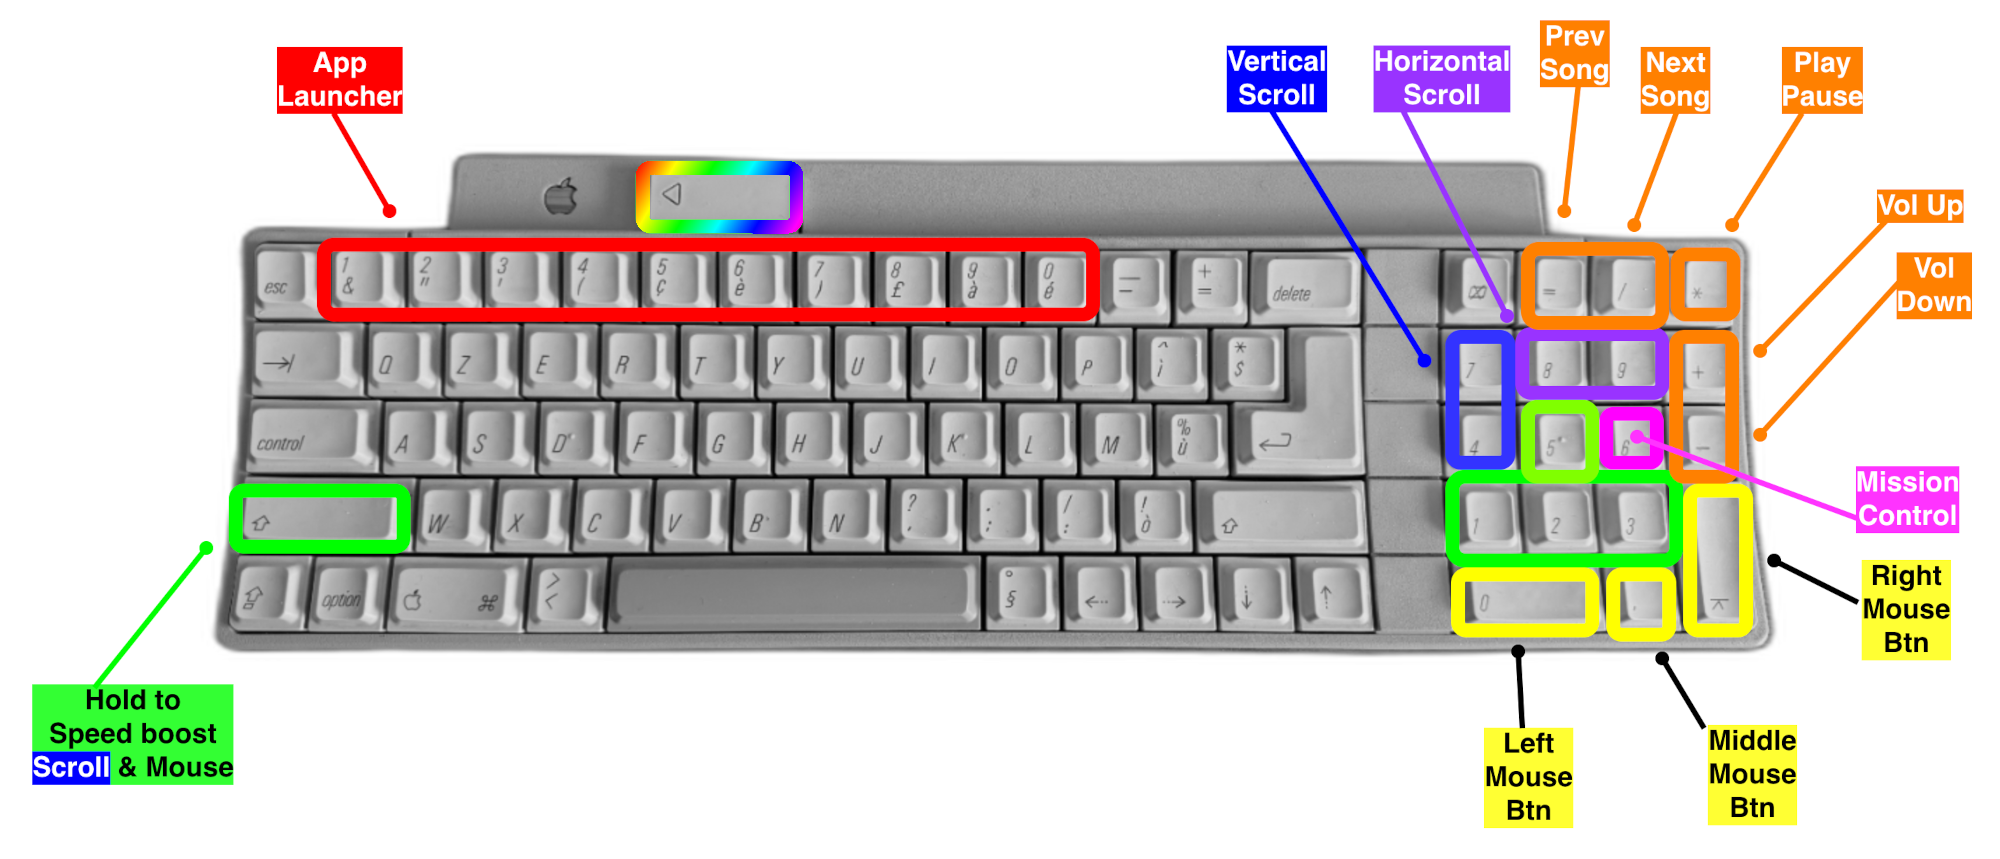
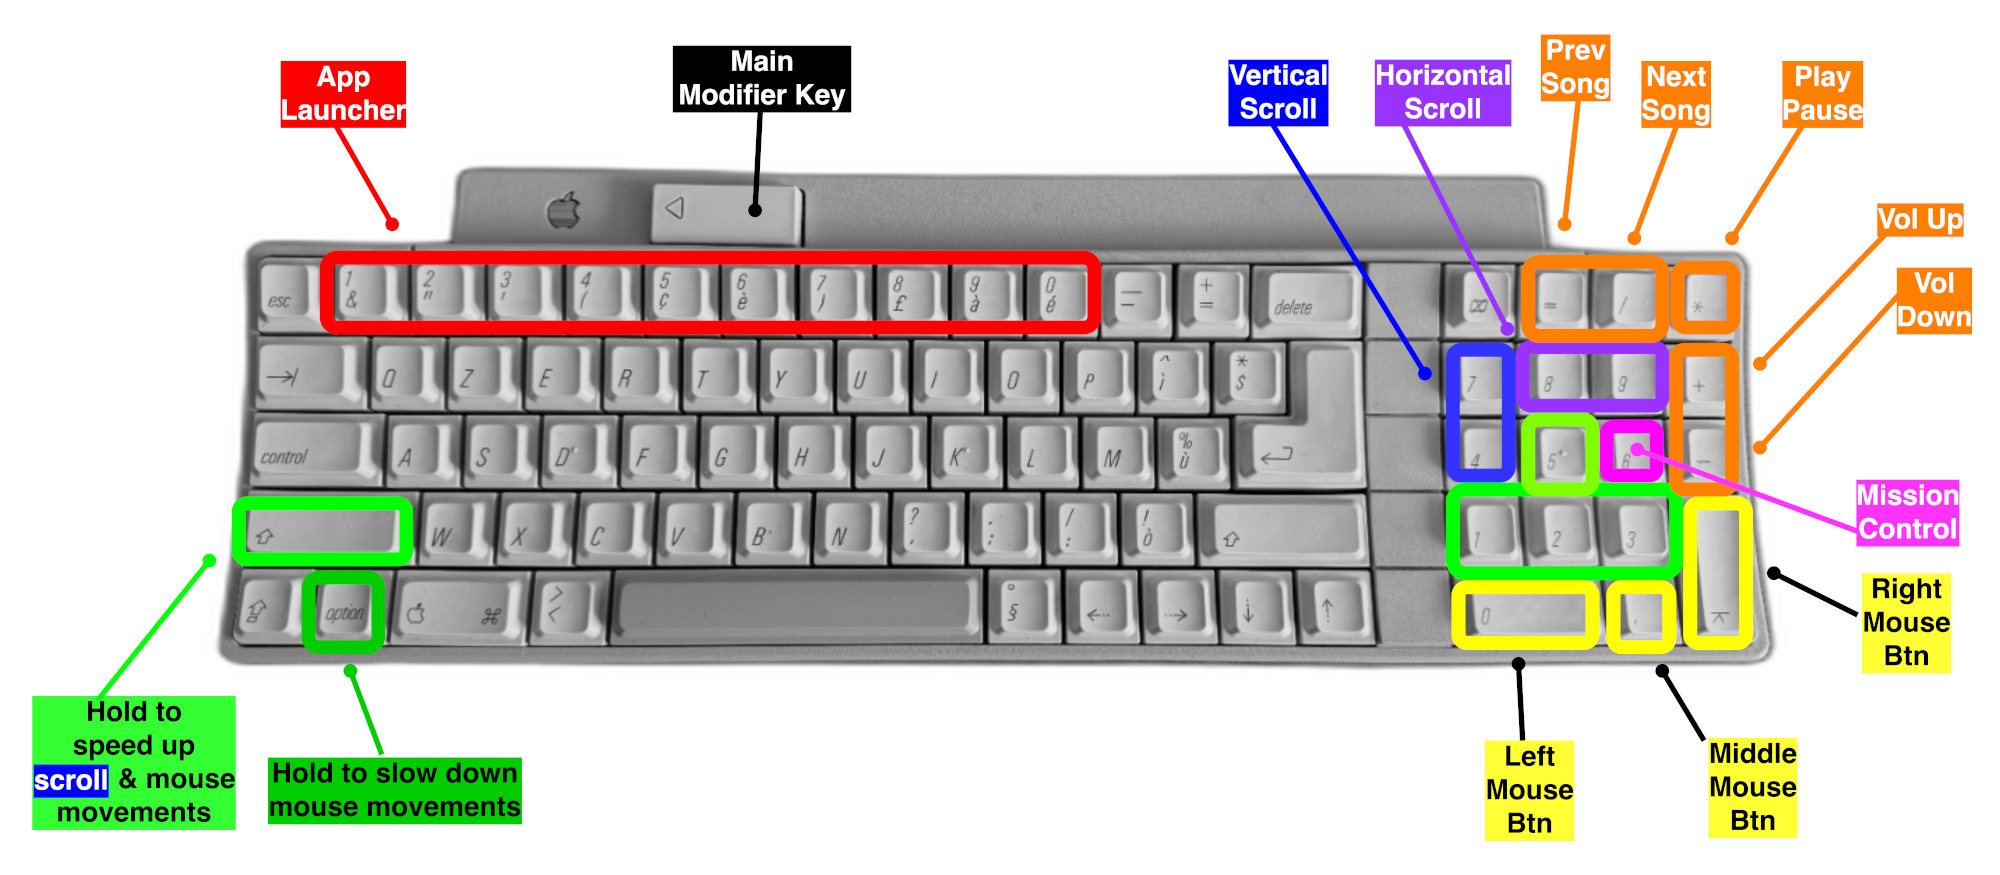
press option to slow down mouse movement

diff --git a/AppDelegate.swift b/AppDelegate.swift
@@ -29,6 +29,8 @@ private let accelerationDefault: CGFloat  = 0.3
 private let maxSpeedDefault: CGFloat      = 15.0
 private let accelerationBoost: CGFloat    = 1.0
 private let maxSpeedBoost: CGFloat        = 30.0
+private let accelerationSlow: CGFloat     = 0.1
+private let maxSpeedSlow: CGFloat         = 0.3
 
 private let scrollBaseSpeed: CGFloat          = 3.0
 private let scrollAccelerationDefault: CGFloat = 0.5
@@ -96,6 +98,7 @@ class AppDelegate: NSObject, NSApplicationDelegate {
     var modifierPressedWhileActive = false
     var modifierUsedForAction = false
     var boostActive = false
+    var slowDownActive = false
     var modifierPressTime: TimeInterval = 0
 
     var acceleration: CGFloat  = accelerationDefault
@@ -523,8 +526,6 @@ class AppDelegate: NSObject, NSApplicationDelegate {
         clickEvent?.post(tap: .cghidEventTap)
     }
 
-    // MARK: Event Handling
-
     func handleEvent(proxy: CGEventTapProxy, type: CGEventType, event: CGEvent) -> Unmanaged<CGEvent>? {
         if type == .tapDisabledByTimeout || type == .tapDisabledByUserInput {
             if let tap = eventTap { CGEvent.tapEnable(tap: tap, enable: true) }
@@ -532,7 +533,17 @@ class AppDelegate: NSObject, NSApplicationDelegate {
         }
 
         let keyCode = event.getIntegerValueField(.keyboardEventKeycode)
+
+        // MARK: Speed modifier
+
         let shiftIsHeld = event.flags.contains(.maskShift)
+        let optionIsHeld = event.flags.contains(.maskAlternate)
+
+        if optionIsHeld != slowDownActive {
+            slowDownActive = optionIsHeld
+            currentVelocity = 0
+            scrollVelocity = 0
+        }
 
         if shiftIsHeld != boostActive {
             boostActive = shiftIsHeld
@@ -540,7 +551,12 @@ class AppDelegate: NSObject, NSApplicationDelegate {
             scrollVelocity = 0
         }
 
-        if shiftIsHeld {
+        if optionIsHeld {
+            scrollAcceleration = scrollAccelerationDefault
+            scrollMaxSpeed = scrollMaxSpeedDefault
+            acceleration = accelerationSlow
+            maxSpeed = maxSpeedSlow
+        } else if shiftIsHeld {
             scrollAcceleration = scrollAccelerationBoost
             scrollMaxSpeed = scrollMaxSpeedBoost
             acceleration = accelerationBoost
@@ -551,6 +567,8 @@ class AppDelegate: NSObject, NSApplicationDelegate {
             acceleration = accelerationDefault
             maxSpeed = maxSpeedDefault
         }
+
+         // MARK: Event Handling
 
         // 1. Handle Modifier - quick tap toggles, hold deactivates on release
         if keyCode == modifierKey {
